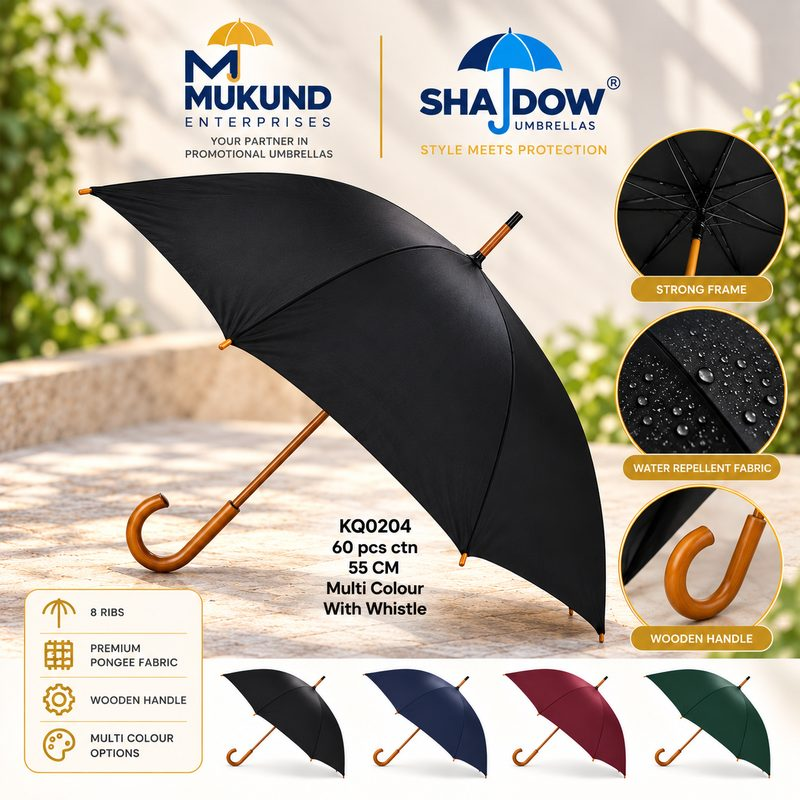
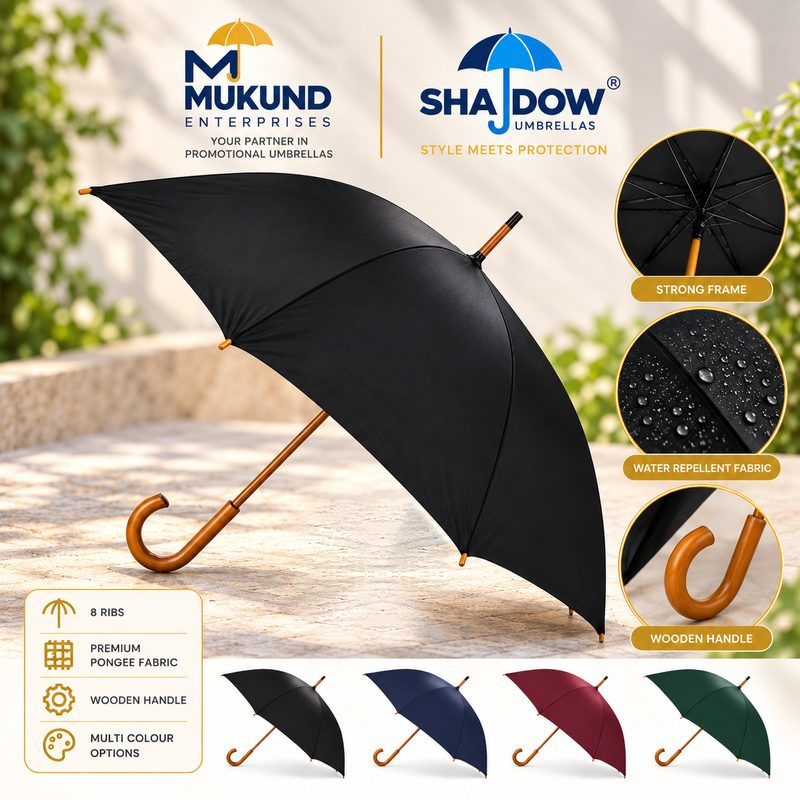
Wooden umbrella to Rain & Sun with product code removed from photo; Long Straight J-Handle to Promotional (not deployed)
Claude-Session: https://claude.ai/code/session_011EQ4jTa1nmGAWaByM4MBeN

Changed region(s): [[0.375, 0.625, 0.5625, 0.8125]]

diff --git a/products.html b/products.html
@@ -50,7 +50,6 @@
       <div class="product" data-cat="Folding"><div class="img"><img class="ph" src="assets/products/capsule-umbrella.jpg" alt="Capsule Umbrella" onerror="this.onerror=null;this.src='assets/umbrella.svg';this.classList.add('icon')"></div><div class="body"><span class="cat">Folding</span><h3><a href="products/capsule-umbrella.html">Capsule Umbrella</a></h3><p class="price">approx. ₹340</p><a class="quote" href="contact.html?topic=Product%20question&product=Capsule%20Umbrella">Get Best Quote →</a></div></div>
       <div class="product" data-cat="Folding"><div class="img"><img class="ph" src="assets/products/ladies-satin-print-umbrella.jpg" alt="Ladies Satin Print Umbrella" onerror="this.onerror=null;this.src='assets/umbrella.svg';this.classList.add('icon')"></div><div class="body"><span class="cat">Folding</span><h3><a href="products/ladies-satin-print-umbrella.html">Ladies Satin Print Umbrella</a></h3><p class="price">approx. ₹100</p><a class="quote" href="contact.html?topic=Product%20question&product=Ladies%20Satin%20Print%20Umbrella">Get Best Quote →</a></div></div>
       <div class="product" data-cat="Rain"><div class="img"><img class="ph" src="assets/products/kids-umbrella.jpg" alt="Kids Umbrella" onerror="this.onerror=null;this.src='assets/umbrella.svg';this.classList.add('icon')"></div><div class="body"><span class="cat">Rain &amp; Sun</span><h3><a href="products/kids-umbrella.html">Kids Umbrella</a></h3><a class="quote" href="contact.html?topic=Product%20question&amp;product=Kids%20Umbrella">Get Best Quote →</a></div></div>
-      <div class="product" data-cat="Rain"><div class="img"><img class="ph" src="assets/products/long-straight-umbrella.jpg" alt="Long Straight Umbrella (J-Handle)" onerror="this.onerror=null;this.src='assets/umbrella.svg';this.classList.add('icon')"></div><div class="body"><span class="cat">Rain &amp; Sun</span><h3><a href="products/long-straight-umbrella.html">Long Straight Umbrella (J-Handle)</a></h3><a class="quote" href="contact.html?topic=Product%20question&amp;product=Long%20Straight%20Umbrella%20%28J-Handle%29">Get Best Quote →</a></div></div>
       <div class="product" data-cat="Rain"><div class="img"><img class="ph" src="assets/products/transparent-umbrella.jpg" alt="Transparent Umbrella" onerror="this.onerror=null;this.src='assets/umbrella.svg';this.classList.add('icon')"></div><div class="body"><span class="cat">Rain &amp; Sun</span><h3><a href="products/transparent-umbrella.html">Transparent Umbrella</a></h3><a class="quote" href="contact.html?topic=Product%20question&amp;product=Transparent%20Umbrella">Get Best Quote →</a></div></div>
       <div class="product" data-cat="Rain"><div class="img"><img class="ph" src="assets/products/reverse-umbrella.jpg" alt="Reverse (Inverted) Umbrella" onerror="this.onerror=null;this.src='assets/umbrella.svg';this.classList.add('icon')"></div><div class="body"><span class="cat">Rain &amp; Sun</span><h3><a href="products/reverse-umbrella.html">Reverse (Inverted) Umbrella</a></h3><a class="quote" href="contact.html?topic=Product%20question&amp;product=Reverse%20%28Inverted%29%20Umbrella">Get Best Quote →</a></div></div>
       <div class="product" data-cat="Rain"><div class="img"><img class="ph" src="assets/products/uv-sun-umbrella.jpg" alt="UV Sun Umbrella" onerror="this.onerror=null;this.src='assets/umbrella.svg';this.classList.add('icon')"></div><div class="body"><span class="cat">Rain &amp; Sun</span><h3><a href="products/uv-sun-umbrella.html">UV Sun Umbrella</a></h3><a class="quote" href="contact.html?topic=Product%20question&amp;product=UV%20Sun%20Umbrella">Get Best Quote →</a></div></div>
@@ -58,15 +57,16 @@
       <div class="product" data-cat="Rain"><div class="img"><img class="ph" src="assets/products/27-inch-3-fold-piping-umbrella.jpg" alt="27&quot; 3 Fold Piping Umbrella" onerror="this.onerror=null;this.src='assets/umbrella.svg';this.classList.add('icon')"></div><div class="body"><span class="cat">Rain &amp; Sun</span><h3><a href="products/27-inch-3-fold-piping-umbrella.html">27" 3 Fold Piping Umbrella</a></h3><a class="quote" href="contact.html?topic=Product%20question&amp;product=27%22%203%20Fold%20Piping%20Umbrella">Get Best Quote →</a></div></div>
       <div class="product" data-cat="Rain"><div class="img"><img class="ph" src="assets/products/24-inch-2-fold-piping-umbrella.jpg" alt="24&quot; 2 Fold Piping Umbrella" onerror="this.onerror=null;this.src='assets/umbrella.svg';this.classList.add('icon')"></div><div class="body"><span class="cat">Rain &amp; Sun</span><h3><a href="products/24-inch-2-fold-piping-umbrella.html">24" 2 Fold Piping Umbrella</a></h3><a class="quote" href="contact.html?topic=Product%20question&amp;product=24%22%202%20Fold%20Piping%20Umbrella">Get Best Quote →</a></div></div>
       <div class="product" data-cat="Rain"><div class="img"><img class="ph" src="assets/products/27-inch-3-fold-satin-umbrella.jpg" alt="27&quot; 3 Fold Satin Umbrella" onerror="this.onerror=null;this.src='assets/umbrella.svg';this.classList.add('icon')"></div><div class="body"><span class="cat">Rain &amp; Sun</span><h3><a href="products/27-inch-3-fold-satin-umbrella.html">27" 3 Fold Satin Umbrella</a></h3><a class="quote" href="contact.html?topic=Product%20question&amp;product=27%22%203%20Fold%20Satin%20Umbrella">Get Best Quote →</a></div></div>
+      <div class="product" data-cat="Rain"><div class="img"><img class="ph" src="assets/products/wooden-stick-umbrella.jpg" alt="Wooden Long Stick J Shape Umbrella" onerror="this.onerror=null;this.src='assets/umbrella.svg';this.classList.add('icon')"></div><div class="body"><span class="cat">Rain &amp; Sun</span><h3><a href="products/wooden-stick-umbrella.html">Wooden Long Stick J Shape Umbrella</a></h3><a class="quote" href="contact.html?topic=Product%20question&product=Wooden%20Long%20Stick%20J%20Shape%20Umbrella">Get Best Quote →</a></div></div>
       <div class="product" data-cat="Outdoor"><div class="img"><img class="ph" src="assets/products/golf-umbrella.jpg" alt="Golf Umbrella" onerror="this.onerror=null;this.src='assets/umbrella.svg';this.classList.add('icon')"></div><div class="body"><span class="cat">Outdoor</span><h3><a href="products/golf-umbrella.html">Golf Umbrella</a></h3><p class="price">approx. ₹140 – ₹220</p><a class="quote" href="contact.html?topic=Product%20question&product=Golf%20Umbrella">Get Best Quote →</a></div></div>
 
 
       <div class="product" data-cat="Promotional"><div class="img"><img class="ph" src="assets/products/promotional-umbrella.jpg" alt="Promotional Umbrella" onerror="this.onerror=null;this.src='assets/umbrella.svg';this.classList.add('icon')"></div><div class="body"><span class="cat">Promotional</span><h3><a href="products/promotional-umbrella.html">Promotional Umbrella</a></h3><a class="quote" href="contact.html?topic=Bulk%20or%20B2B%20order&product=Promotional%20Umbrella">Get Best Quote →</a></div></div>
-      <div class="product" data-cat="Promotional"><div class="img"><img class="ph" src="assets/products/wooden-stick-umbrella.jpg" alt="Wooden Long Stick J Shape Umbrella" onerror="this.onerror=null;this.src='assets/umbrella.svg';this.classList.add('icon')"></div><div class="body"><span class="cat">Promotional</span><h3><a href="products/wooden-stick-umbrella.html">Wooden Long Stick J Shape Umbrella</a></h3><a class="quote" href="contact.html?topic=Bulk%20or%20B2B%20order&product=Wooden%20Long%20Stick%20J%20Shape%20Umbrella">Get Best Quote →</a></div></div>
       <div class="product" data-cat="Promotional"><div class="img"><img class="ph" src="assets/products/promotional-advertising-table.jpg" alt="Promotional Advertising Table" onerror="this.onerror=null;this.src='assets/tent.svg';this.classList.add('icon')"></div><div class="body"><span class="cat">Promotional</span><h3><a href="products/promotional-advertising-table.html">Promotional Advertising Table</a></h3><a class="quote" href="contact.html?topic=Bulk%20or%20B2B%20order&product=Promotional%20Advertising%20Table">Get Best Quote →</a></div></div>
       <div class="product" data-cat="Promotional"><div class="img"><img class="ph" src="assets/products/logo-printed-umbrella.jpg" alt="Customised Logo Printed Umbrella" onerror="this.onerror=null;this.src='assets/umbrella.svg';this.classList.add('icon')"></div><div class="body"><span class="cat">Promotional</span><h3><a href="products/logo-printed-umbrella.html">Customised Logo Printed Umbrella</a></h3><a class="quote" href="contact.html?topic=Bulk%20or%20B2B%20order&amp;product=Customised%20Logo%20Printed%20Umbrella">Get Best Quote →</a></div></div>
       <div class="product" data-cat="Promotional"><div class="img"><img class="ph" src="assets/products/corporate-gift-umbrella.jpg" alt="Corporate Gift Umbrella" onerror="this.onerror=null;this.src='assets/umbrella.svg';this.classList.add('icon')"></div><div class="body"><span class="cat">Promotional</span><h3><a href="products/corporate-gift-umbrella.html">Corporate Gift Umbrella</a></h3><a class="quote" href="contact.html?topic=Bulk%20or%20B2B%20order&amp;product=Corporate%20Gift%20Umbrella">Get Best Quote →</a></div></div>
       <div class="product" data-cat="Promotional"><div class="img"><img class="ph" src="assets/products/promotional-umbrella-with-stand.jpg" alt="Promotional Umbrella with Stand" onerror="this.onerror=null;this.src='assets/umbrella.svg';this.classList.add('icon')"></div><div class="body"><span class="cat">Promotional</span><h3><a href="products/promotional-umbrella-with-stand.html">Promotional Umbrella with Stand</a></h3><a class="quote" href="contact.html?topic=Bulk%20or%20B2B%20order&amp;product=Promotional%20Umbrella%20with%20Stand">Get Best Quote →</a></div></div>
+      <div class="product" data-cat="Promotional"><div class="img"><img class="ph" src="assets/products/long-straight-umbrella.jpg" alt="Long Straight Umbrella (J-Handle)" onerror="this.onerror=null;this.src='assets/umbrella.svg';this.classList.add('icon')"></div><div class="body"><span class="cat">Promotional</span><h3><a href="products/long-straight-umbrella.html">Long Straight Umbrella (J-Handle)</a></h3><a class="quote" href="contact.html?topic=Bulk%20or%20B2B%20order&amp;product=Long%20Straight%20Umbrella%20%28J-Handle%29">Get Best Quote →</a></div></div>
 
       <div class="product" data-cat="Outdoor"><div class="img"><img class="ph" src="assets/products/large-beach-umbrella.jpg" alt="Large Beach Umbrella" onerror="this.onerror=null;this.src='assets/umbrella.svg';this.classList.add('icon')"></div><div class="body"><span class="cat">Outdoor</span><h3><a href="products/large-beach-umbrella.html">Large Beach Umbrella</a></h3><a class="quote" href="contact.html?topic=Product%20question&product=Large%20Beach%20Umbrella">Get Best Quote →</a></div></div>
       <div class="product" data-cat="Outdoor"><div class="img"><img class="ph" src="assets/products/multicolor-garden-umbrella.jpg" alt="Multicolor Garden Umbrella" onerror="this.onerror=null;this.src='assets/umbrella.svg';this.classList.add('icon')"></div><div class="body"><span class="cat">Outdoor</span><h3><a href="products/multicolor-garden-umbrella.html">Multicolor Garden Umbrella</a></h3><a class="quote" href="contact.html?topic=Product%20question&product=Multicolor%20Garden%20Umbrella">Get Best Quote →</a></div></div>

diff --git a/products/wooden-stick-umbrella.html b/products/wooden-stick-umbrella.html
@@ -10,7 +10,7 @@
 <meta property="og:description" content="Wooden Long Stick J Shape Umbrella from Mukund Enterprises: manufacturer and wholesaler in Mumbai. Bulk orders and logo printing available. Kalbadevi, Dombivli and Bhiwandi. Get a quote.">
 <meta property="og:image" content="https://shadowumbrellas.in/assets/products/wooden-stick-umbrella.jpg">
 <link rel="stylesheet" href="../style.css">
-<script type="application/ld+json">{"@context": "https://schema.org", "@type": "Product", "name": "Wooden Long Stick J Shape Umbrella", "description": "A classic long umbrella with a wooden stick and a J-shaped wooden handle, from our Shadow Umbrellas range. It has 8 ribs on a strong frame, a water-repellent pongee canopy and a built-in whistle, and comes in black, navy blue, maroon and green. Packed 60 pieces per carton.", "category": "Promotional products", "url": "https://shadowumbrellas.in/products/wooden-stick-umbrella.html", "brand": {"@type": "Brand", "name": "Shadow Umbrellas"}, "manufacturer": {"@type": "Organization", "name": "Mukund Enterprises", "url": "https://shadowumbrellas.in/"}, "image": "https://shadowumbrellas.in/assets/products/wooden-stick-umbrella.jpg"}</script>
+<script type="application/ld+json">{"@context": "https://schema.org", "@type": "Product", "name": "Wooden Long Stick J Shape Umbrella", "description": "A classic long umbrella with a wooden stick and a J-shaped wooden handle, from our Shadow Umbrellas range. It has 8 ribs on a strong frame, a water-repellent pongee canopy and a built-in whistle, and comes in black, navy blue, maroon and green. Packed 60 pieces per carton.", "category": "Rain & sun umbrellas", "url": "https://shadowumbrellas.in/products/wooden-stick-umbrella.html", "brand": {"@type": "Brand", "name": "Shadow Umbrellas"}, "manufacturer": {"@type": "Organization", "name": "Mukund Enterprises", "url": "https://shadowumbrellas.in/"}, "image": "https://shadowumbrellas.in/assets/products/wooden-stick-umbrella.jpg"}</script>
 <script type="application/ld+json">{"@context": "https://schema.org", "@type": "BreadcrumbList", "itemListElement": [{"@type": "ListItem", "position": 1, "name": "Home", "item": "https://shadowumbrellas.in/"}, {"@type": "ListItem", "position": 2, "name": "Products", "item": "https://shadowumbrellas.in/products.html"}, {"@type": "ListItem", "position": 3, "name": "Wooden Long Stick J Shape Umbrella", "item": "https://shadowumbrellas.in/products/wooden-stick-umbrella.html"}]}</script>
 <script type="application/ld+json">{"@context": "https://schema.org", "@type": "FAQPage", "mainEntity": [{"@type": "Question", "name": "What is the minimum order for the Wooden Long Stick J Shape Umbrella?", "acceptedAnswer": {"@type": "Answer", "text": "The minimum order is 144 pieces (12 dozen) for plain umbrellas and 300 pieces for logo-printed umbrellas. We deal only in bulk for umbrellas."}}, {"@type": "Question", "name": "Can you print our company logo on the Wooden Long Stick J Shape Umbrella?", "acceptedAnswer": {"@type": "Answer", "text": "Yes. We use screen printing for logos with up to 3 colours and digital printing for more colours, with up to 8 impressions on a standard 8-panel umbrella. Send your logo as CDR or PDF – we share a PDF mock-up for approval before printing."}}, {"@type": "Question", "name": "How do I get the price for the Wooden Long Stick J Shape Umbrella?", "acceptedAnswer": {"@type": "Answer", "text": "WhatsApp us on +91 91378 78456 with your quantity and logo – we usually reply within 15 minutes. Prices depend on quantity and branding."}}, {"@type": "Question", "name": "Do you deliver the Wooden Long Stick J Shape Umbrella across India?", "acceptedAnswer": {"@type": "Answer", "text": "Yes, we deliver across India. Orders can also be collected from our Dombivli West shop or Bhiwandi factory outlet by appointment."}}]}</script>
 </head>
@@ -34,15 +34,15 @@
     <div class="pd-grid">
       <div class="pd-img"><img src="../assets/products/wooden-stick-umbrella.jpg" alt="Wooden Long Stick J Shape Umbrella" width="800" height="800"></div>
       <div class="pd-info">
-        <p class="eyebrow">Promotional products · Shadow Umbrellas</p>
+        <p class="eyebrow">Rain &amp; sun umbrellas · Shadow Umbrellas</p>
         <h1>Wooden Long Stick J Shape Umbrella</h1>
         <p class="lead">A classic long umbrella with a wooden stick and a J-shaped wooden handle, from our Shadow Umbrellas range. It has 8 ribs on a strong frame, a water-repellent pongee canopy and a built-in whistle, and comes in black, navy blue, maroon and green. Packed 60 pieces per carton.</p>
         <p>Manufactured and supplied by <b>Mukund Enterprises</b> – over a decade in business, with a booking office in Kalbadevi (Mumbai), a shop in Dombivli West and our own factory in Bhiwandi. We supply bulk and custom-branded orders to wholesalers, retailers and companies across India.</p>
         <div class="btns">
-          <a class="btn" href="../contact.html?topic=Bulk%20or%20B2B%20order&amp;product=Wooden%20Long%20Stick%20J%20Shape%20Umbrella">Get a quote</a>
+          <a class="btn" href="../contact.html?topic=Product%20question&amp;product=Wooden%20Long%20Stick%20J%20Shape%20Umbrella">Get a quote</a>
           <a class="btn ghost" data-wa="Hi, I would like a quote for: Wooden Long Stick J Shape Umbrella">WhatsApp us</a>
         </div>
-        <table class="spec"><tr><th>Category</th><td>Promotional products</td></tr><tr><th>Range</th><td>Shadow Umbrellas</td></tr><tr><th>Custom branding</th><td>Logo printing and colour matching available</td></tr><tr><th>Minimum order</th><td>144 pieces (12 dozen) plain · 300 pieces with logo</td></tr><tr><th>Payment</th><td>50% advance, balance before dispatch · GST invoice</td></tr><tr><th>Delivery</th><td>Across India</td></tr><tr><th>Collect from</th><td>Dombivli West shop or Bhiwandi factory outlet (by appointment)</td></tr></table>
+        <table class="spec"><tr><th>Category</th><td>Rain &amp; sun umbrellas</td></tr><tr><th>Range</th><td>Shadow Umbrellas</td></tr><tr><th>Custom branding</th><td>Logo printing and colour matching available</td></tr><tr><th>Minimum order</th><td>144 pieces (12 dozen) plain · 300 pieces with logo</td></tr><tr><th>Payment</th><td>50% advance, balance before dispatch · GST invoice</td></tr><tr><th>Delivery</th><td>Across India</td></tr><tr><th>Collect from</th><td>Dombivli West shop or Bhiwandi factory outlet (by appointment)</td></tr></table>
       </div>
     </div>
   </div>
@@ -70,8 +70,8 @@
 
 <section class="alt">
   <div class="wrap">
-    <div class="section-head"><p class="eyebrow">More from promotional products</p><h2>Related <em>products</em></h2></div>
-    <ul class="related"><li><a href="promotional-umbrella.html">Promotional Umbrella</a></li><li><a href="promotional-advertising-table.html">Promotional Advertising Table</a></li><li><a href="logo-printed-umbrella.html">Customised Logo Printed Umbrella</a></li><li><a href="corporate-gift-umbrella.html">Corporate Gift Umbrella</a></li><li><a href="../products.html">View all products →</a></li></ul>
+    <div class="section-head"><p class="eyebrow">More from rain &amp; sun umbrellas</p><h2>Related <em>products</em></h2></div>
+    <ul class="related"><li><a href="kids-umbrella.html">Kids Umbrella</a></li><li><a href="transparent-umbrella.html">Transparent Umbrella</a></li><li><a href="reverse-umbrella.html">Reverse (Inverted) Umbrella</a></li><li><a href="uv-sun-umbrella.html">UV Sun Umbrella</a></li><li><a href="../products.html">View all products →</a></li></ul>
   </div>
 </section>
 

diff --git a/products/long-straight-umbrella.html b/products/long-straight-umbrella.html
@@ -10,7 +10,7 @@
 <meta property="og:description" content="Long Straight Umbrella (J-Handle) from Mukund Enterprises: manufacturer and wholesaler in Mumbai. Bulk orders and logo printing available. Kalbadevi, Dombivli and Bhiwandi. Get a quote.">
 
 <link rel="stylesheet" href="../style.css">
-<script type="application/ld+json">{"@context": "https://schema.org", "@type": "Product", "name": "Long Straight Umbrella (J-Handle)", "description": "A classic long umbrella with a straight shaft and a J-shaped handle. Strong, simple and easy to hold, it remains one of the most popular everyday umbrellas.", "category": "Rain & sun umbrellas", "url": "https://shadowumbrellas.in/products/long-straight-umbrella.html", "brand": {"@type": "Brand", "name": "Mukund Enterprises"}, "manufacturer": {"@type": "Organization", "name": "Mukund Enterprises", "url": "https://shadowumbrellas.in/"}}</script>
+<script type="application/ld+json">{"@context": "https://schema.org", "@type": "Product", "name": "Long Straight Umbrella (J-Handle)", "description": "A classic long umbrella with a straight shaft and a J-shaped handle. Strong, simple and easy to hold, it remains one of the most popular everyday umbrellas.", "category": "Promotional products", "url": "https://shadowumbrellas.in/products/long-straight-umbrella.html", "brand": {"@type": "Brand", "name": "Mukund Enterprises"}, "manufacturer": {"@type": "Organization", "name": "Mukund Enterprises", "url": "https://shadowumbrellas.in/"}}</script>
 <script type="application/ld+json">{"@context": "https://schema.org", "@type": "BreadcrumbList", "itemListElement": [{"@type": "ListItem", "position": 1, "name": "Home", "item": "https://shadowumbrellas.in/"}, {"@type": "ListItem", "position": 2, "name": "Products", "item": "https://shadowumbrellas.in/products.html"}, {"@type": "ListItem", "position": 3, "name": "Long Straight Umbrella (J-Handle)", "item": "https://shadowumbrellas.in/products/long-straight-umbrella.html"}]}</script>
 <script type="application/ld+json">{"@context": "https://schema.org", "@type": "FAQPage", "mainEntity": [{"@type": "Question", "name": "What is the minimum order for the Long Straight Umbrella (J-Handle)?", "acceptedAnswer": {"@type": "Answer", "text": "The minimum order is 144 pieces (12 dozen) for plain umbrellas and 300 pieces for logo-printed umbrellas. We deal only in bulk for umbrellas."}}, {"@type": "Question", "name": "Can you print our company logo on the Long Straight Umbrella (J-Handle)?", "acceptedAnswer": {"@type": "Answer", "text": "Yes. We use screen printing for logos with up to 3 colours and digital printing for more colours, with up to 8 impressions on a standard 8-panel umbrella. Send your logo as CDR or PDF – we share a PDF mock-up for approval before printing."}}, {"@type": "Question", "name": "How do I get the price for the Long Straight Umbrella (J-Handle)?", "acceptedAnswer": {"@type": "Answer", "text": "WhatsApp us on +91 91378 78456 with your quantity and logo – we usually reply within 15 minutes. Prices depend on quantity and branding."}}, {"@type": "Question", "name": "Do you deliver the Long Straight Umbrella (J-Handle) across India?", "acceptedAnswer": {"@type": "Answer", "text": "Yes, we deliver across India. Orders can also be collected from our Dombivli West shop or Bhiwandi factory outlet by appointment."}}]}</script>
 </head>
@@ -34,15 +34,15 @@
     <div class="pd-grid">
       <div class="pd-img no-photo"><img src="../assets/umbrella.svg" alt="Long Straight Umbrella (J-Handle)" width="800" height="800"></div>
       <div class="pd-info">
-        <p class="eyebrow">Rain &amp; sun umbrellas</p>
+        <p class="eyebrow">Promotional products</p>
         <h1>Long Straight Umbrella (J-Handle)</h1>
         <p class="lead">A classic long umbrella with a straight shaft and a J-shaped handle. Strong, simple and easy to hold, it remains one of the most popular everyday umbrellas.</p>
         <p>Manufactured and supplied by <b>Mukund Enterprises</b> – over a decade in business, with a booking office in Kalbadevi (Mumbai), a shop in Dombivli West and our own factory in Bhiwandi. We supply bulk and custom-branded orders to wholesalers, retailers and companies across India.</p>
         <div class="btns">
-          <a class="btn" href="../contact.html?topic=Product%20question&amp;amp;product=Long%20Straight%20Umbrella%20%28J-Handle%29">Get a quote</a>
+          <a class="btn" href="../contact.html?topic=Bulk%20or%20B2B%20order&amp;amp;product=Long%20Straight%20Umbrella%20%28J-Handle%29">Get a quote</a>
           <a class="btn ghost" data-wa="Hi, I would like a quote for: Long Straight Umbrella (J-Handle)">WhatsApp us</a>
         </div>
-        <table class="spec"><tr><th>Category</th><td>Rain &amp; sun umbrellas</td></tr><tr><th>Range</th><td>Mukund Enterprises</td></tr><tr><th>Custom branding</th><td>Logo printing and colour matching available</td></tr><tr><th>Minimum order</th><td>144 pieces (12 dozen) plain · 300 pieces with logo</td></tr><tr><th>Payment</th><td>50% advance, balance before dispatch · GST invoice</td></tr><tr><th>Delivery</th><td>Across India</td></tr><tr><th>Collect from</th><td>Dombivli West shop or Bhiwandi factory outlet (by appointment)</td></tr></table>
+        <table class="spec"><tr><th>Category</th><td>Promotional products</td></tr><tr><th>Range</th><td>Promotional – Mukund Enterprises</td></tr><tr><th>Custom branding</th><td>Logo printing and colour matching available</td></tr><tr><th>Minimum order</th><td>144 pieces (12 dozen) plain · 300 pieces with logo</td></tr><tr><th>Payment</th><td>50% advance, balance before dispatch · GST invoice</td></tr><tr><th>Delivery</th><td>Across India</td></tr><tr><th>Collect from</th><td>Dombivli West shop or Bhiwandi factory outlet (by appointment)</td></tr></table>
       </div>
     </div>
   </div>
@@ -70,8 +70,8 @@
 
 <section class="alt">
   <div class="wrap">
-    <div class="section-head"><p class="eyebrow">More from rain &amp; sun umbrellas</p><h2>Related <em>products</em></h2></div>
-    <ul class="related"><li><a href="kids-umbrella.html">Kids Umbrella</a></li><li><a href="transparent-umbrella.html">Transparent Umbrella</a></li><li><a href="reverse-umbrella.html">Reverse (Inverted) Umbrella</a></li><li><a href="uv-sun-umbrella.html">UV Sun Umbrella</a></li><li><a href="../products.html">View all products →</a></li></ul>
+    <div class="section-head"><p class="eyebrow">More from promotional products</p><h2>Related <em>products</em></h2></div>
+    <ul class="related"><li><a href="promotional-umbrella.html">Promotional Umbrella</a></li><li><a href="promotional-advertising-table.html">Promotional Advertising Table</a></li><li><a href="logo-printed-umbrella.html">Customised Logo Printed Umbrella</a></li><li><a href="corporate-gift-umbrella.html">Corporate Gift Umbrella</a></li><li><a href="../products.html">View all products →</a></li></ul>
   </div>
 </section>
 

diff --git a/index.html b/index.html
@@ -62,7 +62,7 @@
           <div class="product" data-cat="Rain"><div class="img"><img class="ph" loading="lazy" src="assets/products/27-inch-3-fold-piping-umbrella.jpg" alt="27&quot; 3 Fold Piping Umbrella" onerror="this.onerror=null;this.src='assets/umbrella.svg';this.classList.add('icon')"></div><div class="body"><span class="cat">Rain &amp; Sun</span><h3><a href="products/27-inch-3-fold-piping-umbrella.html">27" 3 Fold Piping Umbrella</a></h3><a class="quote" href="contact.html?topic=Product%20question&amp;product=27%22%203%20Fold%20Piping%20Umbrella">Get Best Quote →</a></div></div>
           <div class="product" data-cat="Rain"><div class="img"><img class="ph" loading="lazy" src="assets/products/24-inch-2-fold-piping-umbrella.jpg" alt="24&quot; 2 Fold Piping Umbrella" onerror="this.onerror=null;this.src='assets/umbrella.svg';this.classList.add('icon')"></div><div class="body"><span class="cat">Rain &amp; Sun</span><h3><a href="products/24-inch-2-fold-piping-umbrella.html">24" 2 Fold Piping Umbrella</a></h3><a class="quote" href="contact.html?topic=Product%20question&amp;product=24%22%202%20Fold%20Piping%20Umbrella">Get Best Quote →</a></div></div>
           <div class="product" data-cat="Rain"><div class="img"><img class="ph" loading="lazy" src="assets/products/27-inch-3-fold-satin-umbrella.jpg" alt="27&quot; 3 Fold Satin Umbrella" onerror="this.onerror=null;this.src='assets/umbrella.svg';this.classList.add('icon')"></div><div class="body"><span class="cat">Rain &amp; Sun</span><h3><a href="products/27-inch-3-fold-satin-umbrella.html">27" 3 Fold Satin Umbrella</a></h3><a class="quote" href="contact.html?topic=Product%20question&amp;product=27%22%203%20Fold%20Satin%20Umbrella">Get Best Quote →</a></div></div>
-          <div class="product" data-cat="Promotional"><div class="img"><img class="ph" loading="lazy" src="assets/products/wooden-stick-umbrella.jpg" alt="Wooden Long Stick J Shape Umbrella" onerror="this.onerror=null;this.src='assets/umbrella.svg';this.classList.add('icon')"></div><div class="body"><span class="cat">Promotional</span><h3><a href="products/wooden-stick-umbrella.html">Wooden Long Stick J Shape Umbrella</a></h3><a class="quote" href="contact.html?topic=Bulk%20or%20B2B%20order&product=Wooden%20Long%20Stick%20J%20Shape%20Umbrella">Get Best Quote →</a></div></div>
+          <div class="product" data-cat="Rain"><div class="img"><img class="ph" loading="lazy" src="assets/products/wooden-stick-umbrella.jpg" alt="Wooden Long Stick J Shape Umbrella" onerror="this.onerror=null;this.src='assets/umbrella.svg';this.classList.add('icon')"></div><div class="body"><span class="cat">Rain &amp; Sun</span><h3><a href="products/wooden-stick-umbrella.html">Wooden Long Stick J Shape Umbrella</a></h3><a class="quote" href="contact.html?topic=Product%20question&product=Wooden%20Long%20Stick%20J%20Shape%20Umbrella">Get Best Quote →</a></div></div>
       </div>
     </div>
     <div class="btns"><a class="btn ghost" href="products.html">View all products</a></div>

diff --git a/products/promotional-umbrella.html b/products/promotional-umbrella.html
@@ -71,7 +71,7 @@
 <section class="alt">
   <div class="wrap">
     <div class="section-head"><p class="eyebrow">More from promotional products</p><h2>Related <em>products</em></h2></div>
-    <ul class="related"><li><a href="wooden-stick-umbrella.html">Wooden Long Stick J Shape Umbrella</a></li><li><a href="promotional-advertising-table.html">Promotional Advertising Table</a></li><li><a href="logo-printed-umbrella.html">Customised Logo Printed Umbrella</a></li><li><a href="corporate-gift-umbrella.html">Corporate Gift Umbrella</a></li><li><a href="../products.html">View all products →</a></li></ul>
+    <ul class="related"><li><a href="promotional-advertising-table.html">Promotional Advertising Table</a></li><li><a href="logo-printed-umbrella.html">Customised Logo Printed Umbrella</a></li><li><a href="corporate-gift-umbrella.html">Corporate Gift Umbrella</a></li><li><a href="promotional-umbrella-with-stand.html">Promotional Umbrella with Stand</a></li><li><a href="../products.html">View all products →</a></li></ul>
   </div>
 </section>
 

diff --git a/products/corporate-gift-umbrella.html b/products/corporate-gift-umbrella.html
@@ -71,7 +71,7 @@
 <section class="alt">
   <div class="wrap">
     <div class="section-head"><p class="eyebrow">More from promotional products</p><h2>Related <em>products</em></h2></div>
-    <ul class="related"><li><a href="promotional-umbrella.html">Promotional Umbrella</a></li><li><a href="wooden-stick-umbrella.html">Wooden Long Stick J Shape Umbrella</a></li><li><a href="promotional-advertising-table.html">Promotional Advertising Table</a></li><li><a href="logo-printed-umbrella.html">Customised Logo Printed Umbrella</a></li><li><a href="../products.html">View all products →</a></li></ul>
+    <ul class="related"><li><a href="promotional-umbrella.html">Promotional Umbrella</a></li><li><a href="promotional-advertising-table.html">Promotional Advertising Table</a></li><li><a href="logo-printed-umbrella.html">Customised Logo Printed Umbrella</a></li><li><a href="promotional-umbrella-with-stand.html">Promotional Umbrella with Stand</a></li><li><a href="../products.html">View all products →</a></li></ul>
   </div>
 </section>
 

diff --git a/products/logo-printed-umbrella.html b/products/logo-printed-umbrella.html
@@ -71,7 +71,7 @@
 <section class="alt">
   <div class="wrap">
     <div class="section-head"><p class="eyebrow">More from promotional products</p><h2>Related <em>products</em></h2></div>
-    <ul class="related"><li><a href="promotional-umbrella.html">Promotional Umbrella</a></li><li><a href="wooden-stick-umbrella.html">Wooden Long Stick J Shape Umbrella</a></li><li><a href="promotional-advertising-table.html">Promotional Advertising Table</a></li><li><a href="corporate-gift-umbrella.html">Corporate Gift Umbrella</a></li><li><a href="../products.html">View all products →</a></li></ul>
+    <ul class="related"><li><a href="promotional-umbrella.html">Promotional Umbrella</a></li><li><a href="promotional-advertising-table.html">Promotional Advertising Table</a></li><li><a href="corporate-gift-umbrella.html">Corporate Gift Umbrella</a></li><li><a href="promotional-umbrella-with-stand.html">Promotional Umbrella with Stand</a></li><li><a href="../products.html">View all products →</a></li></ul>
   </div>
 </section>
 

diff --git a/products/promotional-umbrella-with-stand.html b/products/promotional-umbrella-with-stand.html
@@ -71,7 +71,7 @@
 <section class="alt">
   <div class="wrap">
     <div class="section-head"><p class="eyebrow">More from promotional products</p><h2>Related <em>products</em></h2></div>
-    <ul class="related"><li><a href="promotional-umbrella.html">Promotional Umbrella</a></li><li><a href="wooden-stick-umbrella.html">Wooden Long Stick J Shape Umbrella</a></li><li><a href="promotional-advertising-table.html">Promotional Advertising Table</a></li><li><a href="logo-printed-umbrella.html">Customised Logo Printed Umbrella</a></li><li><a href="../products.html">View all products →</a></li></ul>
+    <ul class="related"><li><a href="promotional-umbrella.html">Promotional Umbrella</a></li><li><a href="promotional-advertising-table.html">Promotional Advertising Table</a></li><li><a href="logo-printed-umbrella.html">Customised Logo Printed Umbrella</a></li><li><a href="corporate-gift-umbrella.html">Corporate Gift Umbrella</a></li><li><a href="../products.html">View all products →</a></li></ul>
   </div>
 </section>
 

diff --git a/products/promotional-advertising-table.html b/products/promotional-advertising-table.html
@@ -71,7 +71,7 @@
 <section class="alt">
   <div class="wrap">
     <div class="section-head"><p class="eyebrow">More from promotional products</p><h2>Related <em>products</em></h2></div>
-    <ul class="related"><li><a href="promotional-umbrella.html">Promotional Umbrella</a></li><li><a href="wooden-stick-umbrella.html">Wooden Long Stick J Shape Umbrella</a></li><li><a href="logo-printed-umbrella.html">Customised Logo Printed Umbrella</a></li><li><a href="corporate-gift-umbrella.html">Corporate Gift Umbrella</a></li><li><a href="../products.html">View all products →</a></li></ul>
+    <ul class="related"><li><a href="promotional-umbrella.html">Promotional Umbrella</a></li><li><a href="logo-printed-umbrella.html">Customised Logo Printed Umbrella</a></li><li><a href="corporate-gift-umbrella.html">Corporate Gift Umbrella</a></li><li><a href="promotional-umbrella-with-stand.html">Promotional Umbrella with Stand</a></li><li><a href="../products.html">View all products →</a></li></ul>
   </div>
 </section>
 

diff --git a/products/kids-umbrella.html b/products/kids-umbrella.html
@@ -71,7 +71,7 @@
 <section class="alt">
   <div class="wrap">
     <div class="section-head"><p class="eyebrow">More from rain &amp; sun umbrellas</p><h2>Related <em>products</em></h2></div>
-    <ul class="related"><li><a href="long-straight-umbrella.html">Long Straight Umbrella (J-Handle)</a></li><li><a href="transparent-umbrella.html">Transparent Umbrella</a></li><li><a href="reverse-umbrella.html">Reverse (Inverted) Umbrella</a></li><li><a href="uv-sun-umbrella.html">UV Sun Umbrella</a></li><li><a href="../products.html">View all products →</a></li></ul>
+    <ul class="related"><li><a href="transparent-umbrella.html">Transparent Umbrella</a></li><li><a href="reverse-umbrella.html">Reverse (Inverted) Umbrella</a></li><li><a href="uv-sun-umbrella.html">UV Sun Umbrella</a></li><li><a href="windproof-umbrella.html">Windproof Umbrella</a></li><li><a href="../products.html">View all products →</a></li></ul>
   </div>
 </section>
 

diff --git a/products/uv-sun-umbrella.html b/products/uv-sun-umbrella.html
@@ -71,7 +71,7 @@
 <section class="alt">
   <div class="wrap">
     <div class="section-head"><p class="eyebrow">More from rain &amp; sun umbrellas</p><h2>Related <em>products</em></h2></div>
-    <ul class="related"><li><a href="kids-umbrella.html">Kids Umbrella</a></li><li><a href="long-straight-umbrella.html">Long Straight Umbrella (J-Handle)</a></li><li><a href="transparent-umbrella.html">Transparent Umbrella</a></li><li><a href="reverse-umbrella.html">Reverse (Inverted) Umbrella</a></li><li><a href="../products.html">View all products →</a></li></ul>
+    <ul class="related"><li><a href="kids-umbrella.html">Kids Umbrella</a></li><li><a href="transparent-umbrella.html">Transparent Umbrella</a></li><li><a href="reverse-umbrella.html">Reverse (Inverted) Umbrella</a></li><li><a href="windproof-umbrella.html">Windproof Umbrella</a></li><li><a href="../products.html">View all products →</a></li></ul>
   </div>
 </section>
 

diff --git a/products/24-inch-2-fold-piping-umbrella.html b/products/24-inch-2-fold-piping-umbrella.html
@@ -71,7 +71,7 @@
 <section class="alt">
   <div class="wrap">
     <div class="section-head"><p class="eyebrow">More from rain &amp; sun umbrellas</p><h2>Related <em>products</em></h2></div>
-    <ul class="related"><li><a href="kids-umbrella.html">Kids Umbrella</a></li><li><a href="long-straight-umbrella.html">Long Straight Umbrella (J-Handle)</a></li><li><a href="transparent-umbrella.html">Transparent Umbrella</a></li><li><a href="reverse-umbrella.html">Reverse (Inverted) Umbrella</a></li><li><a href="../products.html">View all products →</a></li></ul>
+    <ul class="related"><li><a href="kids-umbrella.html">Kids Umbrella</a></li><li><a href="transparent-umbrella.html">Transparent Umbrella</a></li><li><a href="reverse-umbrella.html">Reverse (Inverted) Umbrella</a></li><li><a href="uv-sun-umbrella.html">UV Sun Umbrella</a></li><li><a href="../products.html">View all products →</a></li></ul>
   </div>
 </section>
 
